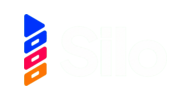
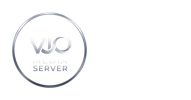
fix(mail,apiv2): Vio default wordmark, legacy X-Silo ingest constants + test

Changed region(s): [[0.0524, 0.12, 0.4712, 0.9]]

diff --git a/internal/apiv2/device_header_test.go b/internal/apiv2/device_header_test.go
@@ -76,6 +76,27 @@ func TestDeviceHeaderGuardRefusesRepeatedAndMalformedValues(t *testing.T) {
 	}
 }
 
+// The legacy X-Silo-Device-Id spelling is accepted on ingest (see
+// rejectMalformedDeviceHeader): a request carrying only the legacy spelling
+// has it promoted to X-Vio-Device-Id before the operation binds it.
+func TestDeviceHeaderGuardPromotesLegacySpelling(t *testing.T) {
+	svc := &fakeDownloadCreation{row: &downloads.Download{ID: "entry", ContentID: "movie", MediaFileID: 42, Revision: 1, CreatedAt: time.Date(2026, 1, 2, 3, 4, 5, 0, time.UTC)}}
+	deps := pilotDeps(nil, nil)
+	deps.DownloadCreation = svc
+	h := newTestHandler(t, deps)
+	body := `{"content_id":"movie","media_file_id":"42","expected_revision":0}`
+	r := httptest.NewRequest(http.MethodPost, Prefix+"/downloads", strings.NewReader(body))
+	r.Header.Set("Content-Type", "application/json")
+	r.Header.Set("Authorization", "Bearer "+memberToken)
+	r.Header.Set("X-Profile-Id", "p-owner")
+	r.Header.Set("X-Silo-Device-Id", "legacy-tv-1")
+	rec := httptest.NewRecorder()
+	h.ServeHTTP(rec, r)
+	if rec.Code != http.StatusAccepted || svc.req.DeviceID != "legacy-tv-1" {
+		t.Fatalf("legacy header: %d %s %q", rec.Code, rec.Body.String(), svc.req.DeviceID)
+	}
+}
+
 // The guard runs for every v2 operation, including ones that never bind the
 // header, and its refusal is a problem document with the request id.
 func TestDeviceHeaderGuardCoversEveryOperation(t *testing.T) {

diff --git a/internal/mail/brand.go b/internal/mail/brand.go
@@ -16,16 +16,19 @@ import (
 	"github.com/Silo-Server/silo-server/internal/imageutil"
 )
 
-// Email branding follows the web sidebar (web/src/components/SiloBrand.tsx):
-// the header shows the server's uploaded wordmark, else Silo's own, with the
+// Email branding follows the web sidebar (web/src/components/SiloBrand.tsx
+// renders web/public/vio-wordmark-sidebar.png): the header shows the
+// server's uploaded wordmark, else the fork's Vio wordmark, with the
 // server name as alt text; the accent color, when set, colors the primary
 // action. The logo travels inside the message as an inline PNG rather than a
 // link: many clients block remote images, the recipient may not be able to
 // reach the server, and uploaded logos are stored as WebP, which Outlook does
 // not render.
 
-// defaultWordmarkPNG is a copy of web/public/silo-wordmark-sidebar.png; keep
-// the two in step when the Silo wordmark changes.
+// defaultWordmarkPNG is the fork's Vio wordmark (a copy of
+// web/public/vio-wordmark-sidebar.png); keep the two in step when it
+// changes. The filename stays silo-wordmark.png so the embedded-asset path
+// is unchanged.
 //
 //go:embed assets/silo-wordmark.png
 var defaultWordmarkPNG []byte

diff --git a/internal/apiv2/settings.go b/internal/apiv2/settings.go
@@ -28,7 +28,7 @@ const deviceIDHeader = "X-Vio-Device-Id"
 
 // legacyDeviceIDHeader is the pre-rebrand device header spelling, accepted on
 // ingest only and never emitted.
-const legacyDeviceIDHeader = "X-Vio-Device-Id"
+const legacyDeviceIDHeader = "X-Silo-Device-Id"
 
 // fieldDeviceID is the seam's name for a rejected device id; it is rendered
 // at the header the framework declared, not as a body member.
@@ -652,7 +652,7 @@ func pluginSettingsInstallationFromView(v handlers.PluginUserSettingsView) Plugi
 const clientFamilyHeader = "X-Vio-Client-Family"
 
 // legacyClientFamilyHeader is the pre-rebrand spelling, ingest only.
-const legacyClientFamilyHeader = "X-Vio-Client-Family"
+const legacyClientFamilyHeader = "X-Silo-Client-Family"
 
 // JSONValue is a setting value on the wire: any JSON document. The settings
 // contract's value_schema for the key fixes its shape, so this document does
